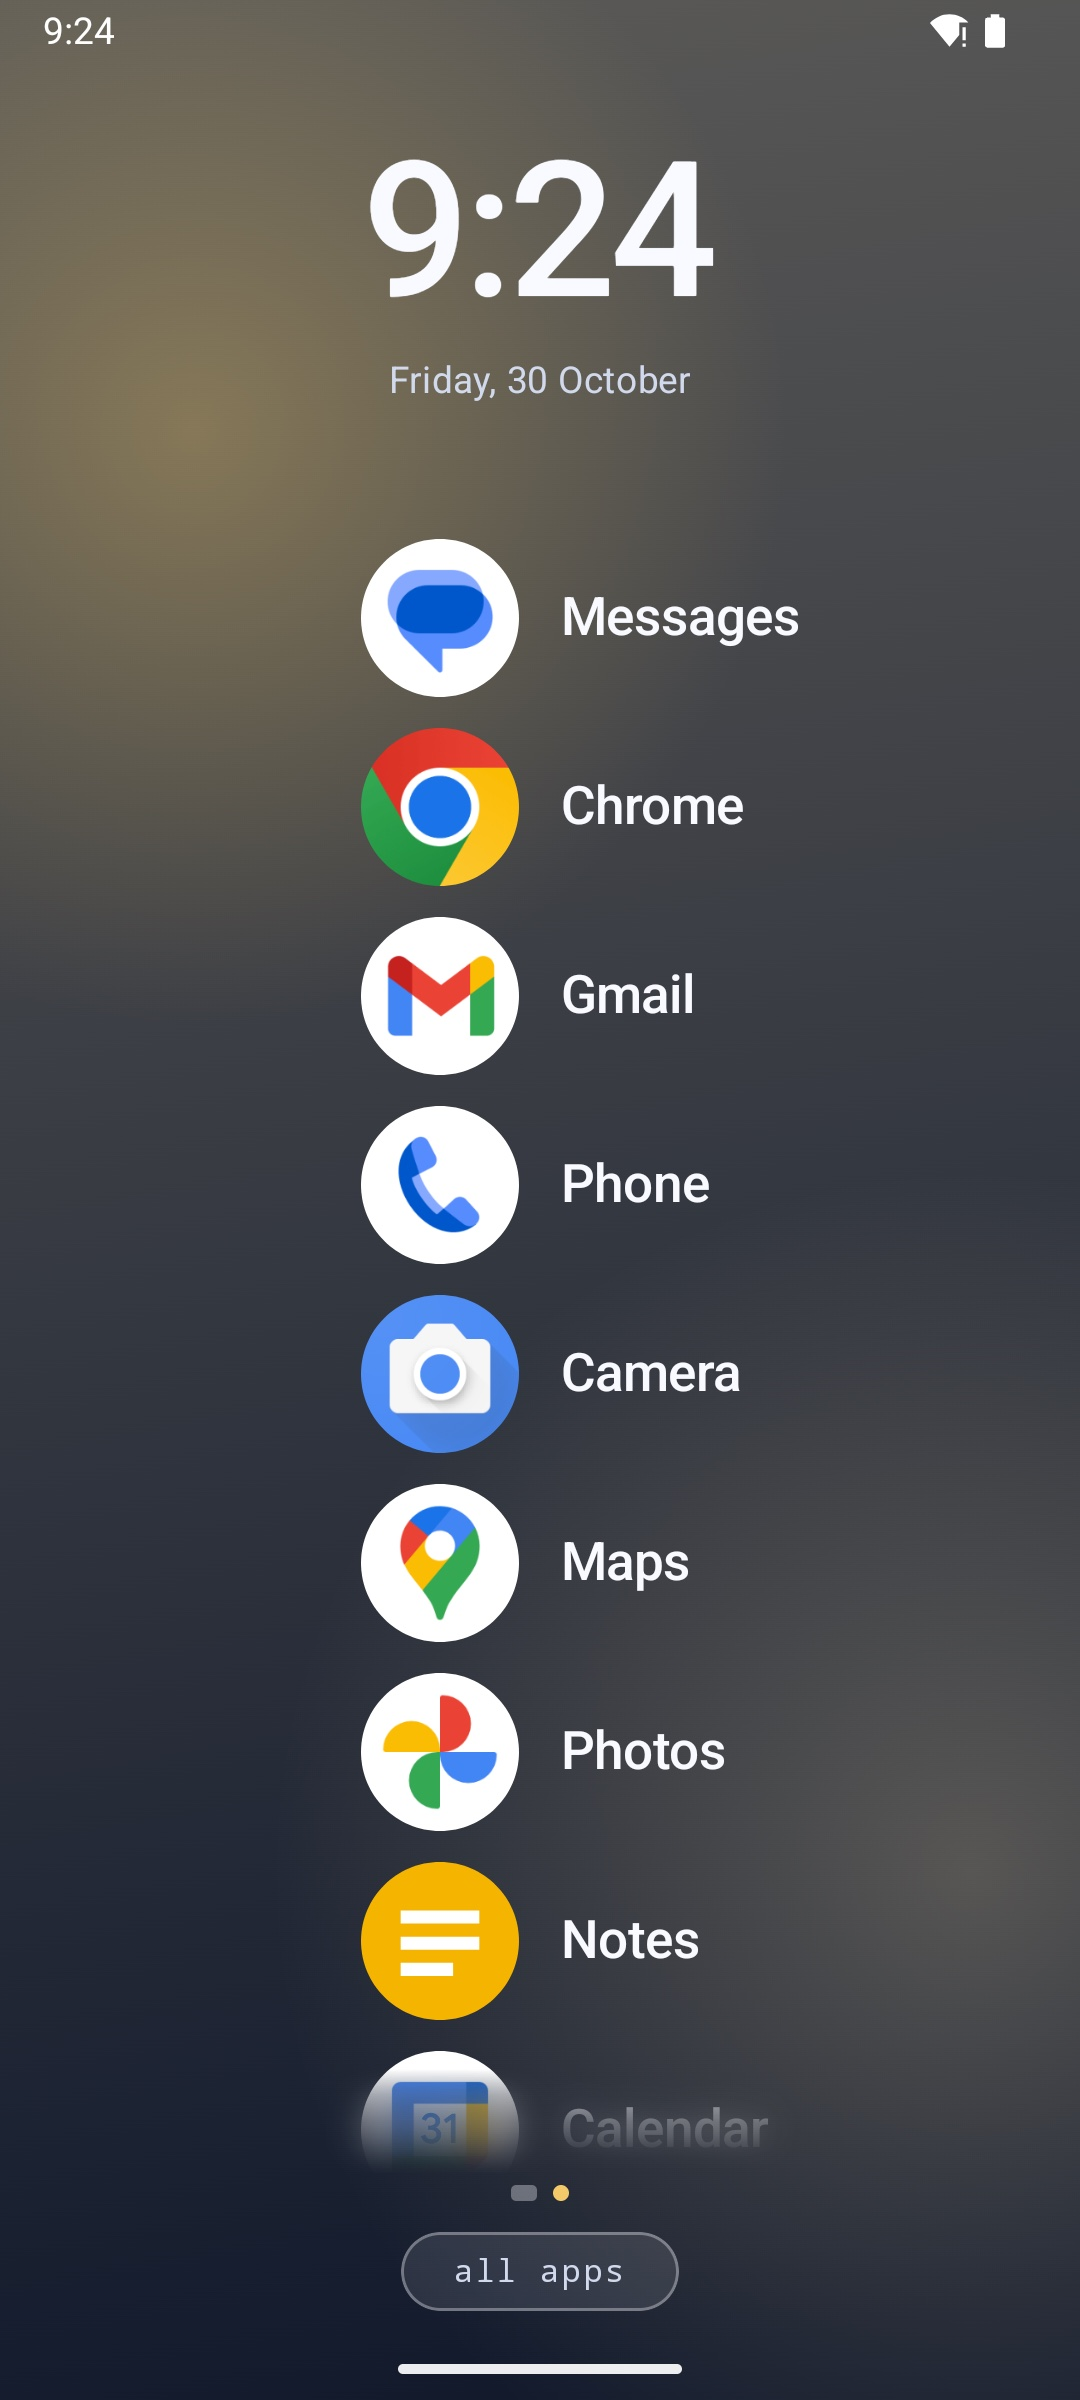
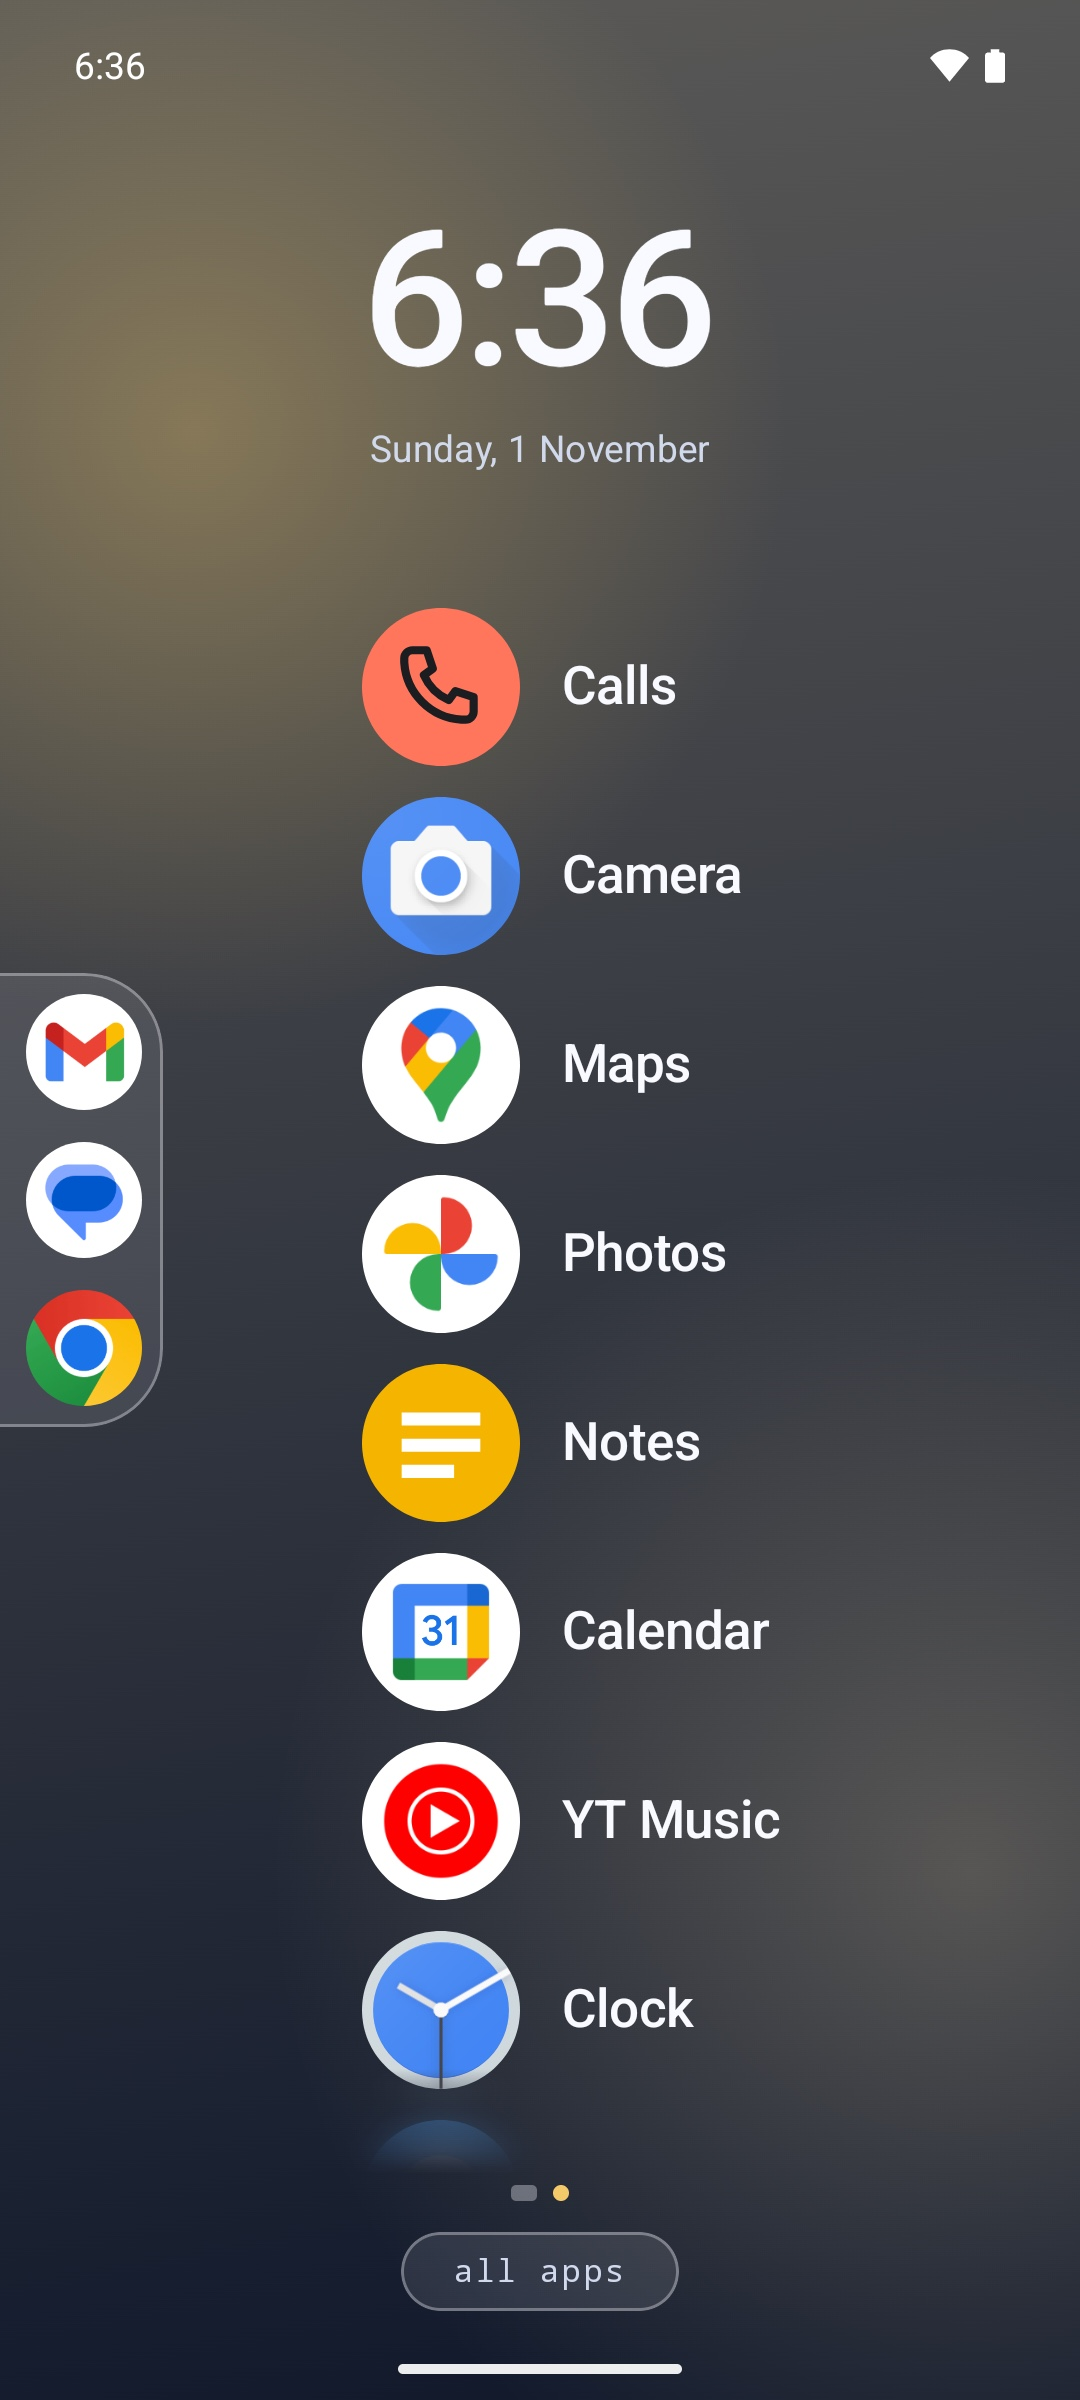
Screenshots for 0.2.0
Home with the dock, the docked-app menu, and Edit name and icon replace
the 0.1.3 shots that still showed Pin in place.

diff --git a/README.md b/README.md
@@ -7,13 +7,13 @@ open things: restless for the first few days, then still enough to learn with yo
 Kotlin + Compose. **No INTERNET permission**; your launch history never leaves the phone.
 
 <p>
-  <img src="fastlane/metadata/android/en-US/images/phoneScreenshots/1_home.jpg" width="200" alt="Home: one app per line, most used at the top">
-  <img src="fastlane/metadata/android/en-US/images/phoneScreenshots/2_drawer.jpg" width="200" alt="All apps: alphabetical, with search and a letter rail">
-  <img src="fastlane/metadata/android/en-US/images/phoneScreenshots/3_menu.jpg" width="200" alt="Long-press menu: Open, App info, Uninstall">
+  <img src="fastlane/metadata/android/en-US/images/phoneScreenshots/1_home.jpg" width="200" alt="Home: one app per line, most used at the top, with a dock beside it">
+  <img src="fastlane/metadata/android/en-US/images/phoneScreenshots/2_all_apps.jpg" width="200" alt="All apps: alphabetical, with search and a letter rail">
+  <img src="fastlane/metadata/android/en-US/images/phoneScreenshots/3_menu.jpg" width="200" alt="Long-press menu on a docked app: move, remove, rename, app info, uninstall">
 </p>
 <p>
-  <img src="fastlane/metadata/android/en-US/images/phoneScreenshots/4_settings.jpg" width="200" alt="Settings: look and home">
-  <img src="fastlane/metadata/android/en-US/images/phoneScreenshots/5_settings_bottom.jpg" width="200" alt="Settings: reordering, and places each app gained or lost">
+  <img src="fastlane/metadata/android/en-US/images/phoneScreenshots/4_edit_icon.jpg" width="200" alt="Edit name and icon: rename an app and pick one of Swell's icons">
+  <img src="fastlane/metadata/android/en-US/images/phoneScreenshots/5_settings.jpg" width="200" alt="Settings: look and home">
   <img src="fastlane/metadata/android/en-US/images/phoneScreenshots/6_least_used.jpg" width="200" alt="Least used: select apps to uninstall">
 </p>
 
